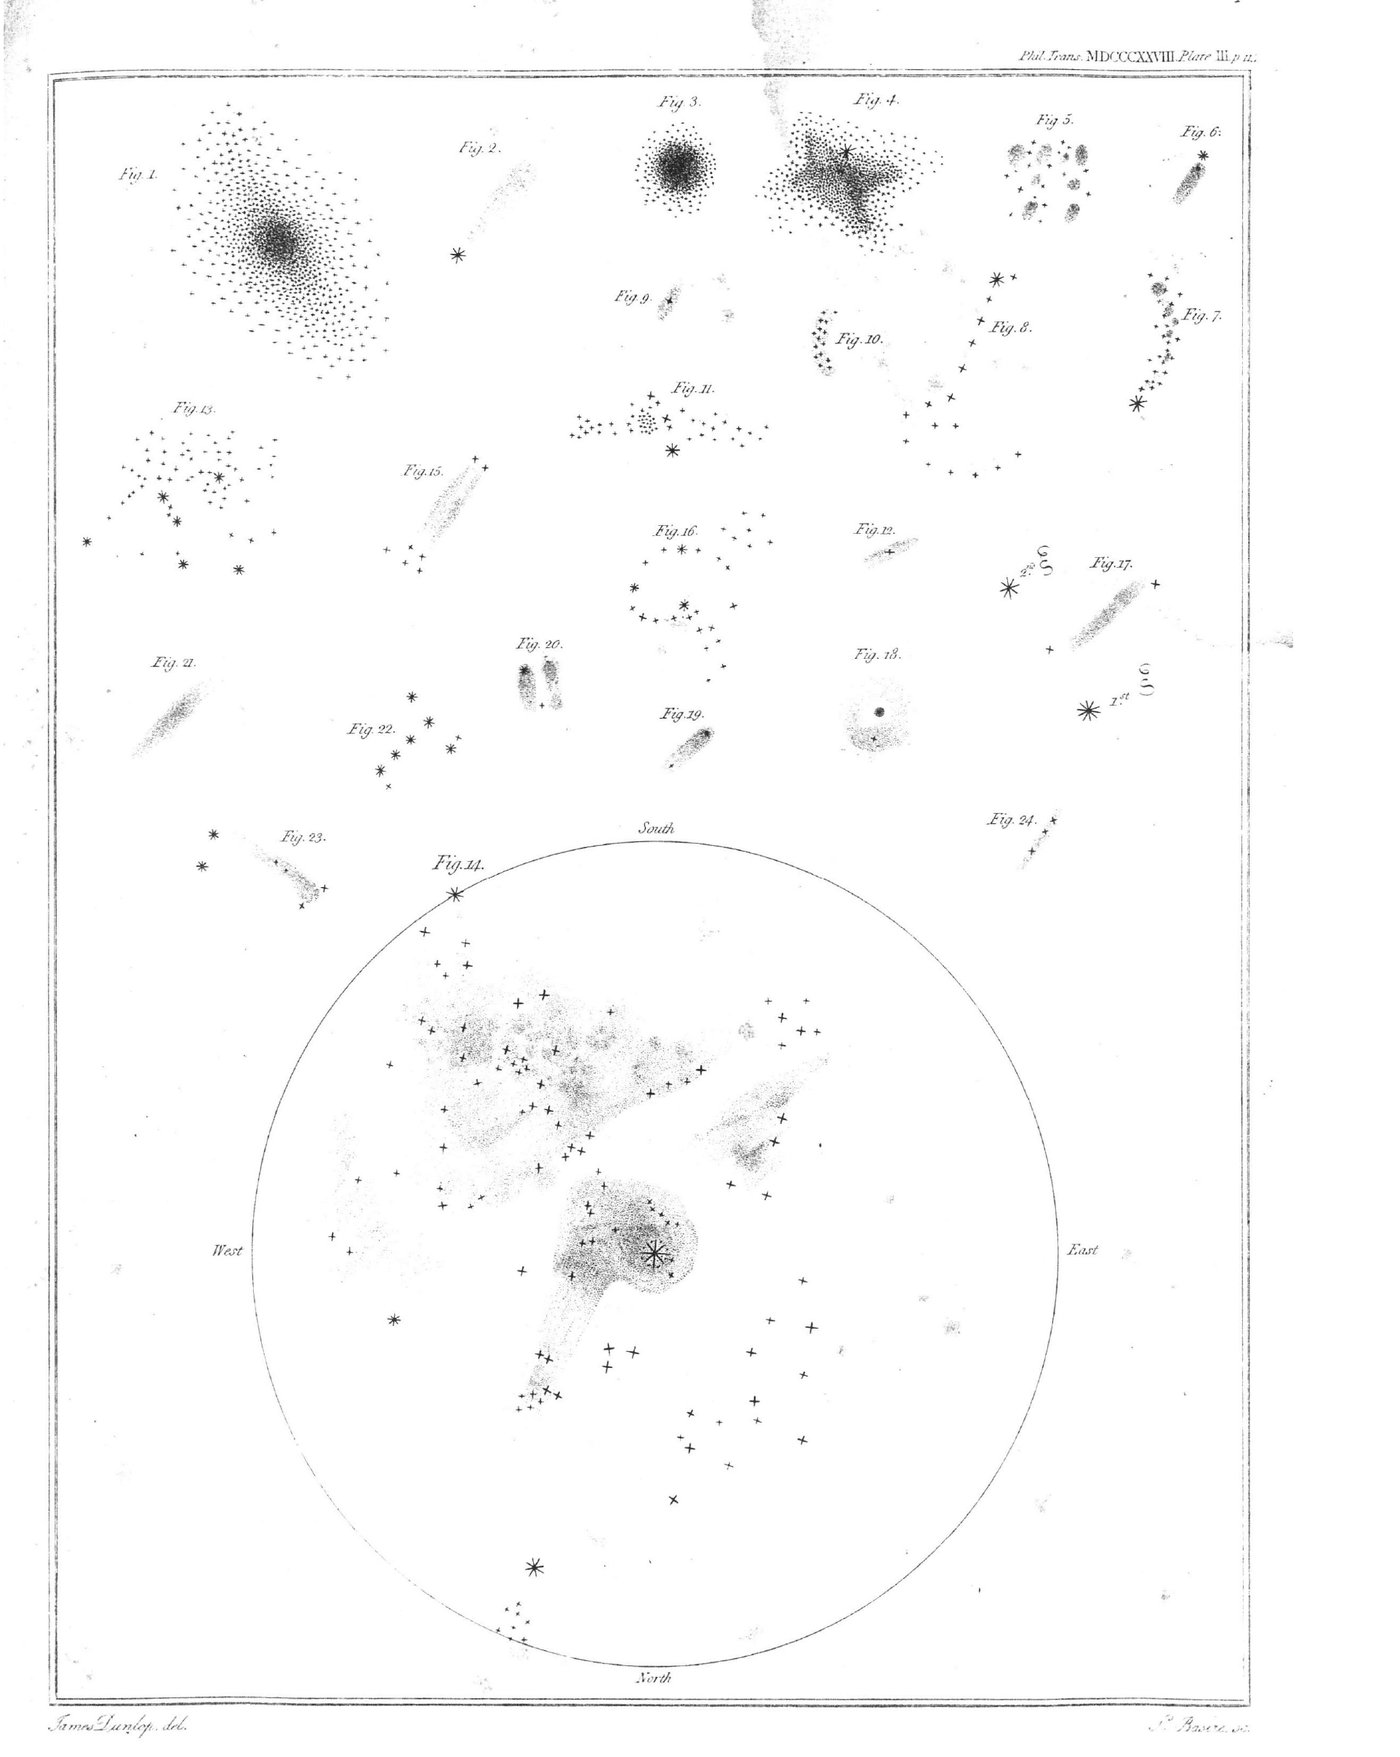
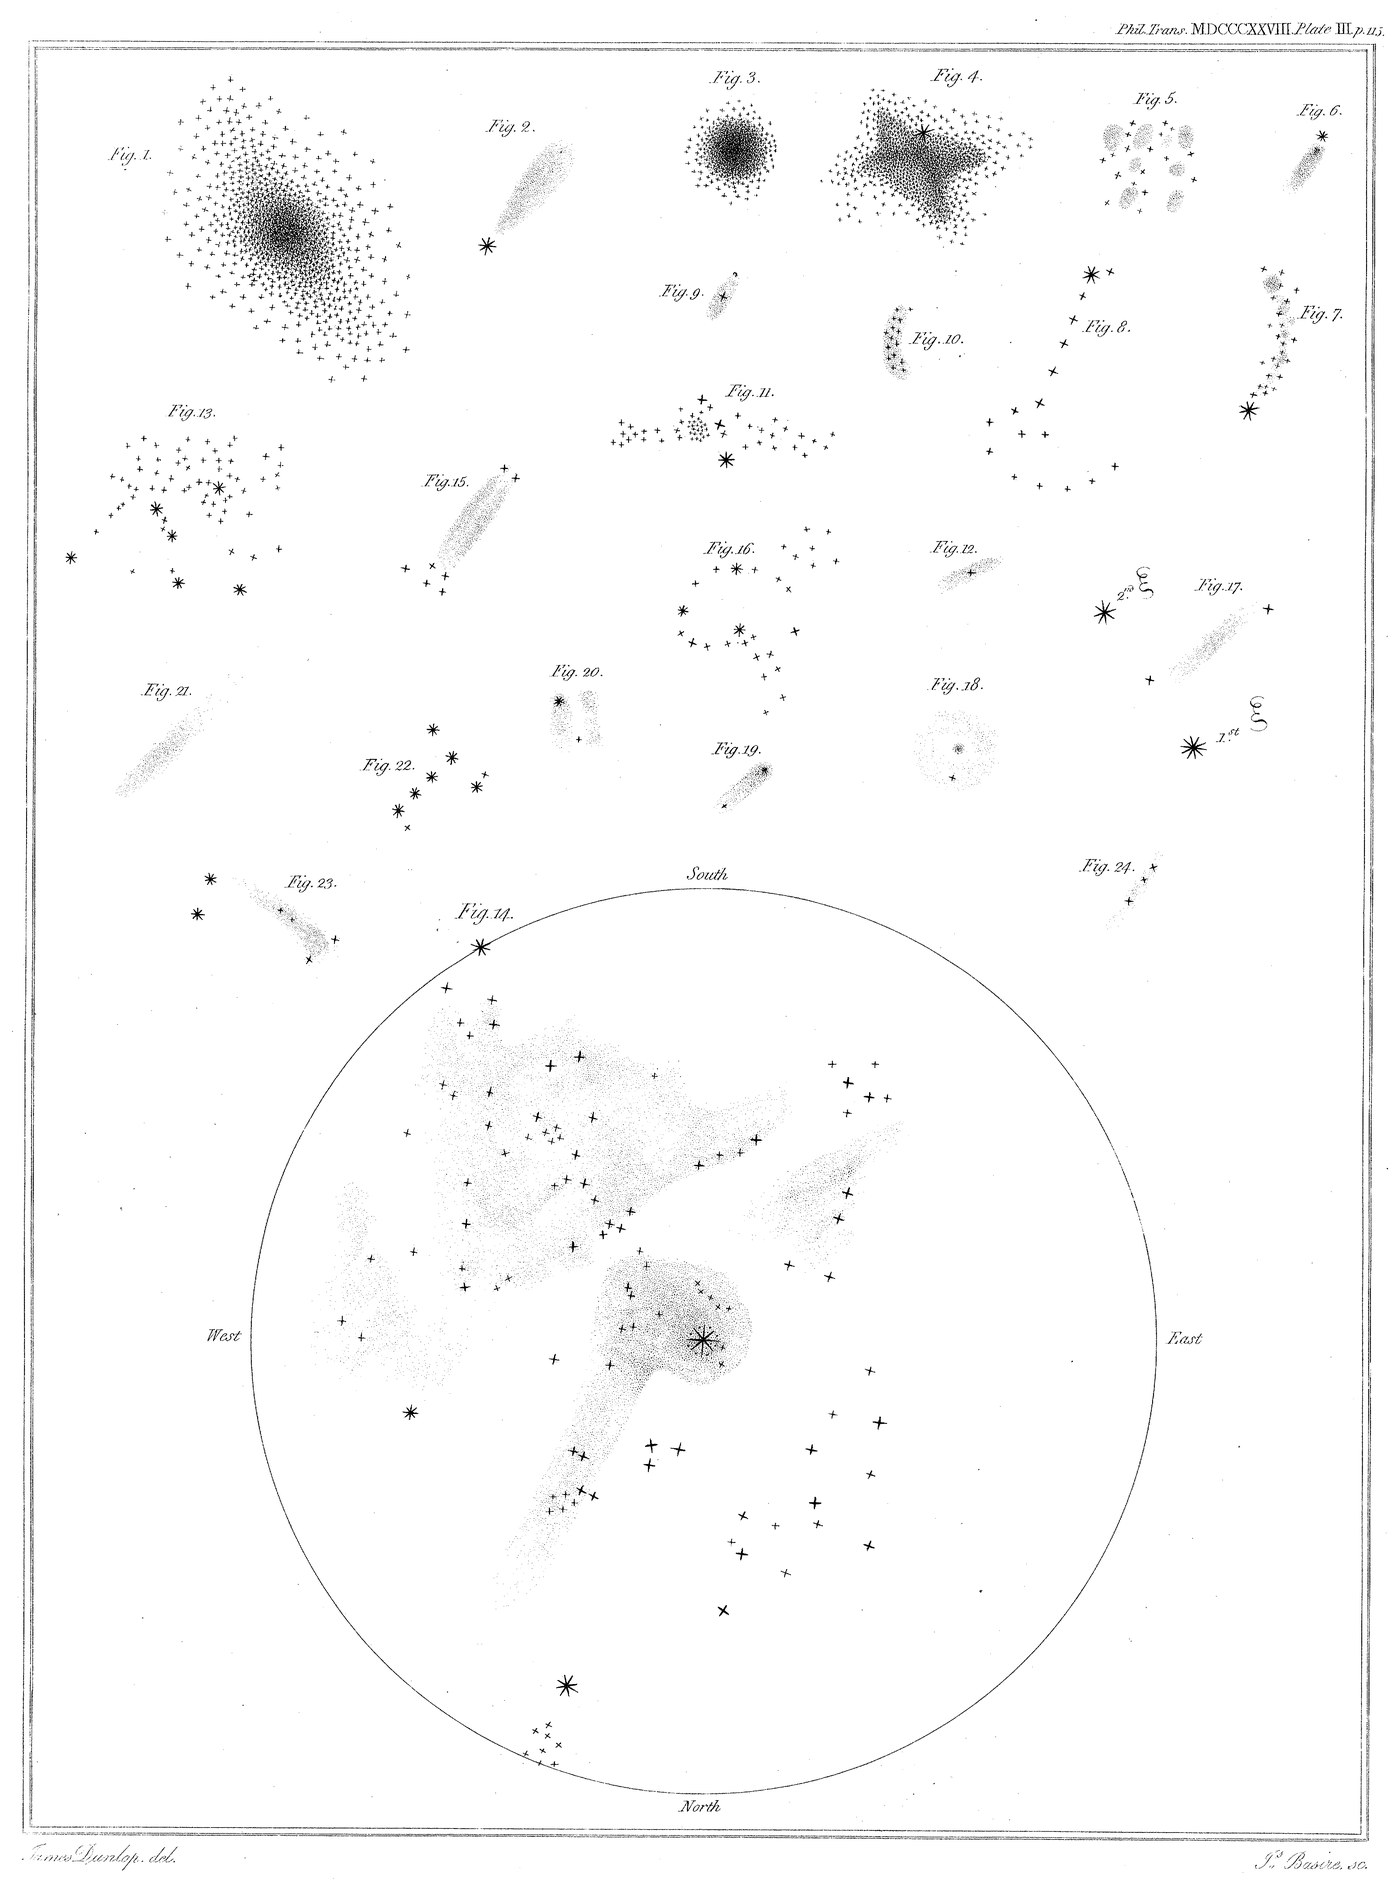
Dunlop page: use the plate from the original 1828 Phil. Trans. scan (#13)
Claude-Session: https://claude.ai/code/session_01VeUKVfaXN4J1bZkr1ZzzDC

diff --git a/tools/make_atlas.py b/tools/make_atlas.py
@@ -111,11 +111,12 @@ COLLECTIONS = {
               "footprint of KS4 Data Release 1, in Dunlop's order. " + HOW_TO,
         count="{n} of the {total} identified Dunlop objects south of {dec} are inside the KS4 DR1 footprint.",
         figure=('<figure class="atlas-fig"><a href="assets/dunlop-plate-1828.jpg">'
-                '<img src="assets/dunlop-plate-1828.jpg" width="1400" height="1757" loading="lazy" '
+                '<img src="assets/dunlop-plate-1828.jpg" width="1400" height="1889" loading="lazy" '
                 'alt="Plate of hand-drawn nebulae and star clusters by James Dunlop"></a>'
                 "<figcaption>Dunlop's own drawings of nebulae and clusters, from the plate published with his "
-                "catalogue (Dunlop 1828, Philosophical Transactions of the Royal Society 118, 113), as reproduced "
-                "by Cozens, Walsh and Orchiston (2010).</figcaption></figure>"),
+                "catalogue (Dunlop 1828, Philosophical Transactions of the Royal Society 118, 113). Scan of the "
+                'original from <a href="https://zenodo.org/record/1432362">JSTOR Early Journal Content</a>.'
+                "</figcaption></figure>"),
         credit=KS4_CREDIT + " Object list and identifications: Cozens, Walsh and Orchiston (2010), Journal of "
                "Astronomical History and Heritage 13, 59. Positions: "
                '<a href="https://github.com/mattiaverga/OpenNGC">OpenNGC</a> (CC BY-SA 4.0) and the same paper.'),
